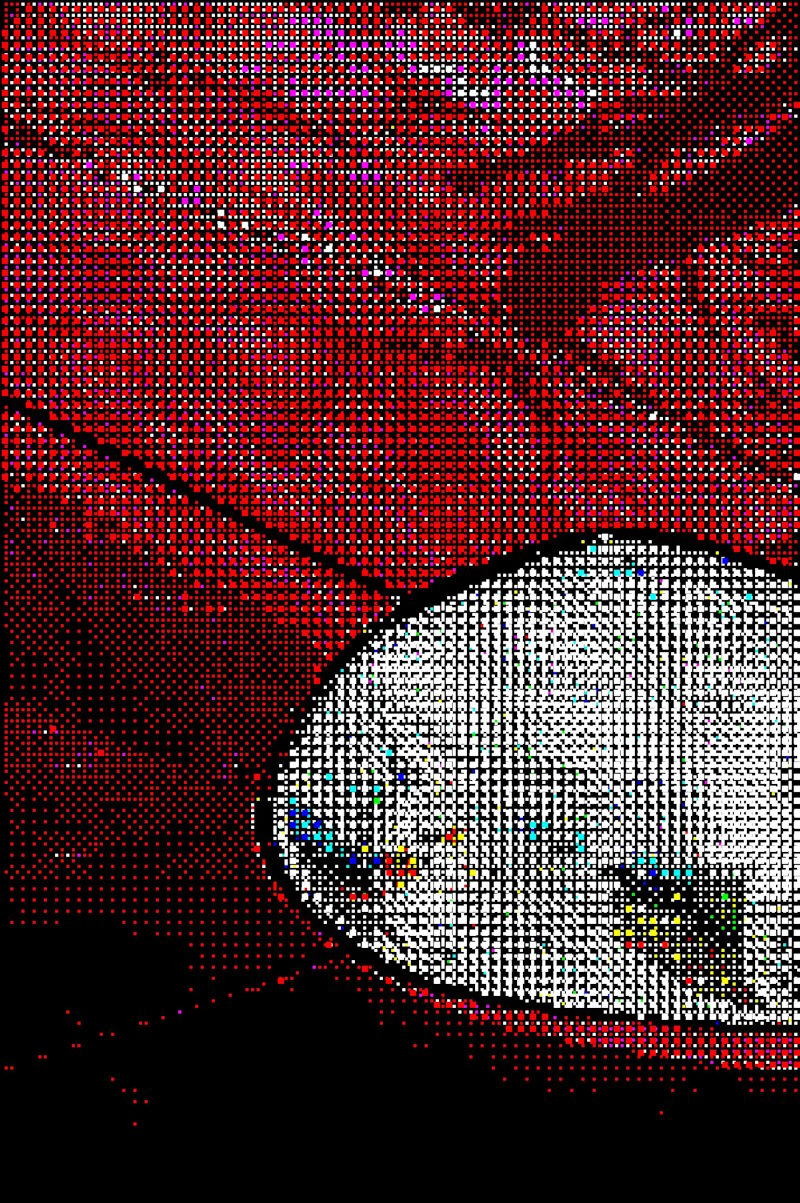
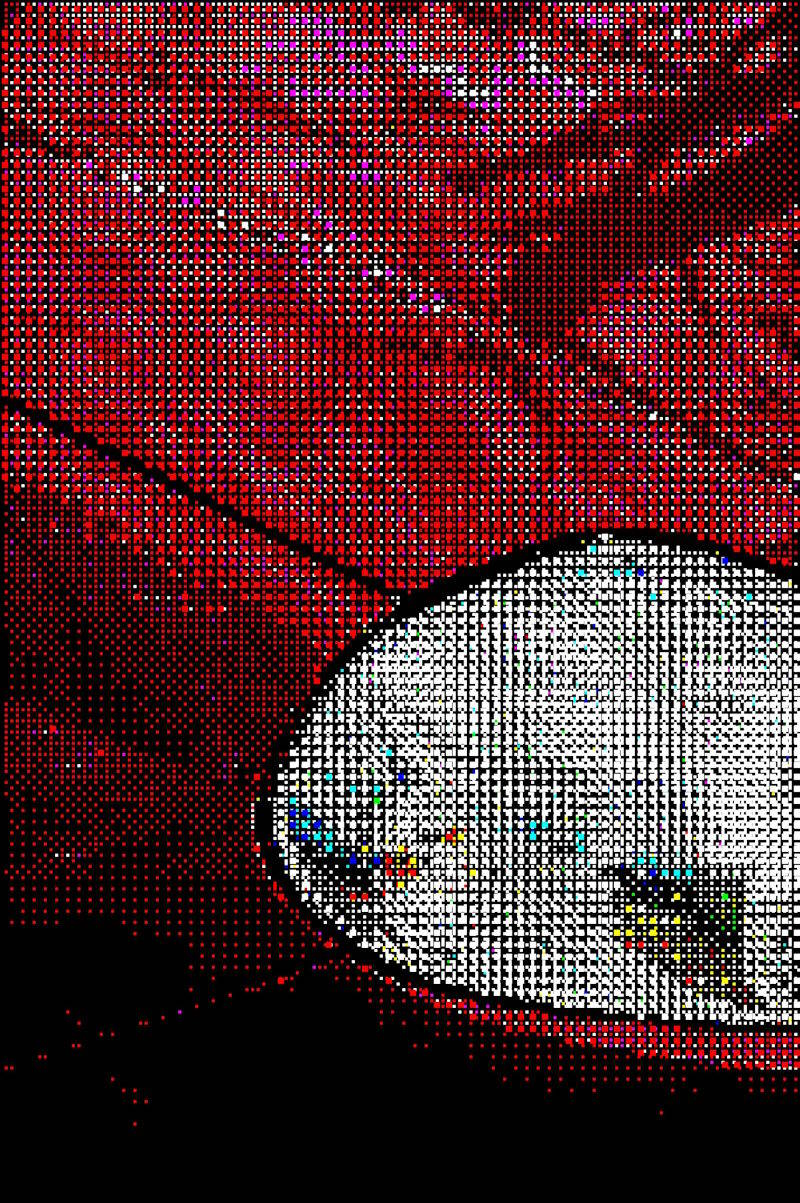
lowered the size for many pictures to improve performance

diff --git a/index.html b/index.html
@@ -40,21 +40,21 @@
 					</div>
 					
 					<div class="gallery" id="project2">
-						<img src="media/analogue/1.jpg" alt="Photo 10" class="fade-in">
-						<img src="media/analogue/2.jpg" alt="Photo 11" class="fade-in">
-						<img src="media/analogue/3.jpg" alt="Photo 12" class="fade-in">
+						<img src="media/analogue/1.jpg" alt="Analogue photo 1" class="fade-in">
+						<img src="media/analogue/2.jpg" alt="Analogue photo 2" class="fade-in">
+						<img src="media/analogue/3.jpg" alt="Analogue photo 3" class="fade-in">
 						
-						<img src="media/analogue/4.jpg" alt="Photo 13" class="fade-in">
-						<img src="media/analogue/5.jpg" alt="Photo 14" class="fade-in">
-						<img src="media/analogue/6.jpg" alt="Photo 15" class="fade-in">
+						<img src="media/analogue/4.jpg" alt="Analogue photo 4" class="fade-in">
+						<img src="media/analogue/5.jpg" alt="Analogue photo 5" class="fade-in">
+						<img src="media/analogue/6.jpg" alt="Analogue photo 6" class="fade-in">
 						
-						<img src="media/analogue/7.jpg" alt="Photo 7" class="fade-in">
-						<img src="media/analogue/8.jpg" alt="Photo 8" class="fade-in">
-						<img src="media/analogue/9.jpg" alt="Photo 9" class="fade-in">
+						<img src="media/analogue/7.jpg" alt="Analogue photo 7" class="fade-in">
+						<img src="media/analogue/8.jpg" alt="Analogue photo 8" class="fade-in">
+						<img src="media/analogue/9.jpg" alt="Analogue photo 9" class="fade-in">
 					</div>
 					
 					<div class="gallery" id="project3">
-						<img src="media/13.png" alt="Photo 12" class="fade-in">
+						<img src="media/13.jpg" alt="Photo 12" class="fade-in">
 						<div class="gallery-text fade-in" style="width:60%;">
 						  <h3>About this series</h3>
 						  <p>Like many other photographers, I have a deep love for analogue photography. Shooting a roll of film is an entirely different experience from the digital approach. To me, the fascinating thing about film is the process and journey that happen before you're able to see what you've captured. In the digital world, this excitement and novelty are taken away by screens and live previews.</p>
@@ -64,22 +64,26 @@
 						  </p>
 						</div>
 						
-						<img src="media/experimental/1.jpg" alt="Photo 10" class="fade-in">
-						<img src="media/experimental/2.png" alt="Photo 11" class="fade-in">
-						<img src="media/experimental/3.png" alt="Photo 12" class="fade-in">
+						<img src="media/experimental/1.jpg" alt="Experimental photo 1" class="fade-in">
+						<img src="media/experimental/2.png" alt="Experimental photo 2" class="fade-in">
+						<img src="media/experimental/3.png" alt="Experimental photo 3" class="fade-in">
 						
-						<img src="media/experimental/4.png" alt="Photo 13" class="fade-in">
-						<img src="media/experimental/5.png" alt="Photo 14" class="fade-in">
-						<img src="media/experimental/6.jpg" alt="Photo 15" class="fade-in">
+						<img src="media/experimental/4.jpg" alt="Experimental photo 4" class="fade-in">
+						<img src="media/experimental/5.jpg" alt="Experimental photo 5" class="fade-in">
+						<img src="media/experimental/6.jpg" alt="Experimental photo 6" class="fade-in">
 						
-						<img src="media/experimental/7.png" alt="Photo 13" class="fade-in">
-						<img src="media/experimental/8.png" alt="Photo 14" class="fade-in">
-						<img src="media/experimental/9.png" alt="Photo 15" class="fade-in">
+						<img src="media/experimental/10.jpg" alt="Experimental photo 4" class="fade-in">
+						<img src="media/experimental/11.jpg" alt="Experimental photo 5" class="fade-in">
+						<img src="media/experimental/12.jpg" alt="Experimental photo 6" class="fade-in">
+						
+						<img src="media/experimental/7.jpg" alt="Experimental photo 7" class="fade-in">
+						<img src="media/experimental/8.jpg" alt="Experimental photo 8" class="fade-in">
+						<img src="media/experimental/9.jpg" alt="Experimental photo 9" class="fade-in">
 					</div>
 				</div>
 			</div>
 				
-			<footer>
+			<footer style="text-align: center;">
 				<p>2025 Cesare Brunello</p>
 			</footer>
 		</div>
